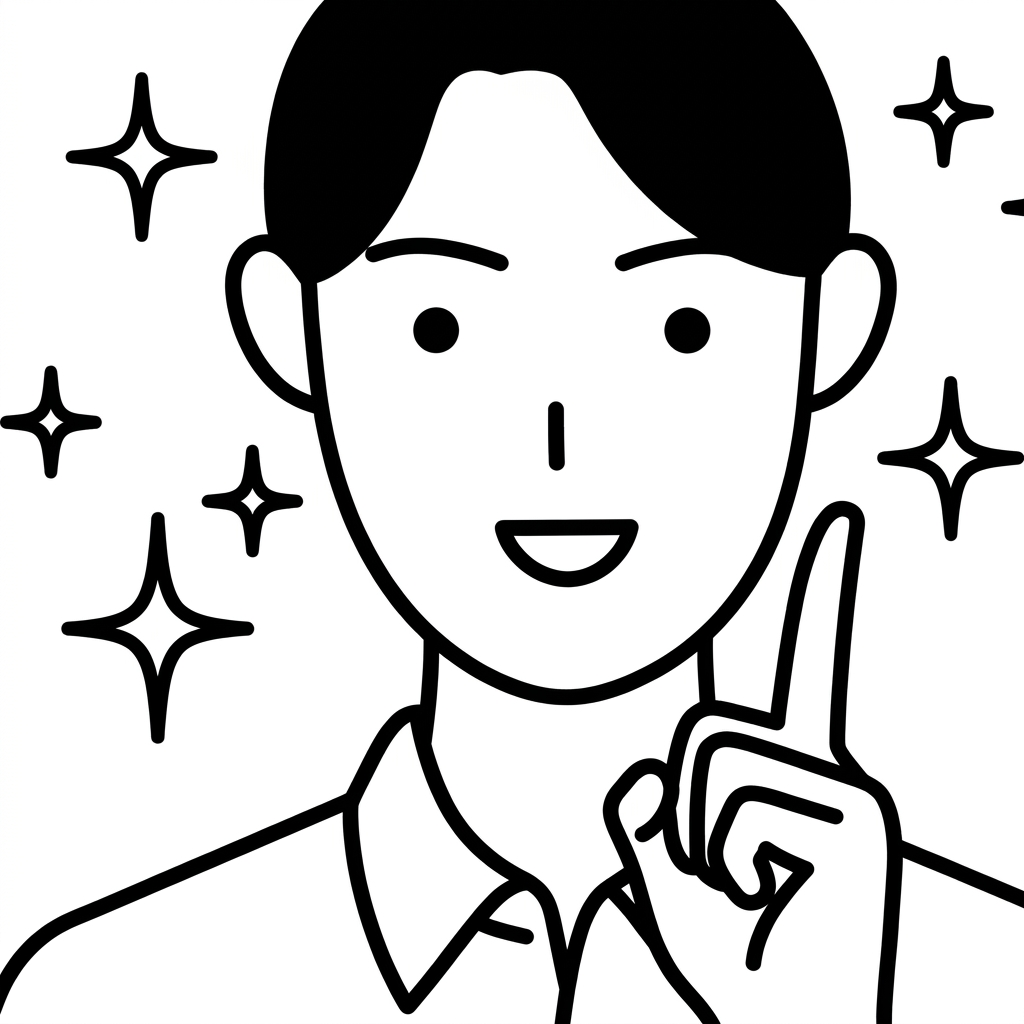
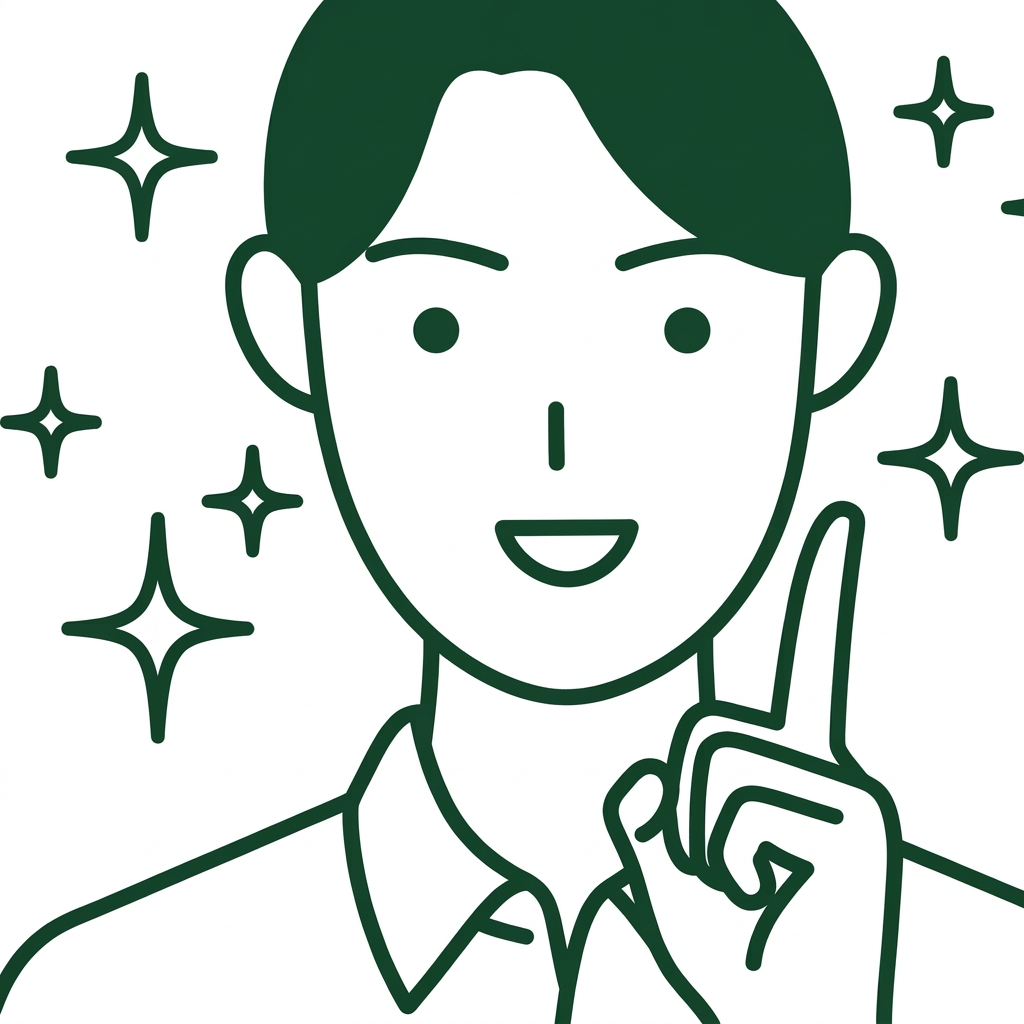
Adjust novelist to green accents

diff --git a/src/pages/SystemParametersRoles.tsx b/src/pages/SystemParametersRoles.tsx
@@ -93,11 +93,11 @@ export default function SystemParametersRoles() {
                           : "border-border hover:border-muted-foreground/30"
                       }`}
                     >
-                      <div className="w-20 h-20 flex-shrink-0 overflow-hidden">
+                      <div className="w-20 h-20 flex-shrink-0 overflow-visible -mr-2">
                         <img
                           src={role.image}
                           alt={role.label}
-                          className="w-full h-full object-cover"
+                          className="w-full h-full object-contain object-left"
                         />
                       </div>
                       <RadioGroupItem value={role.id} id={`role-${role.id}`} />
